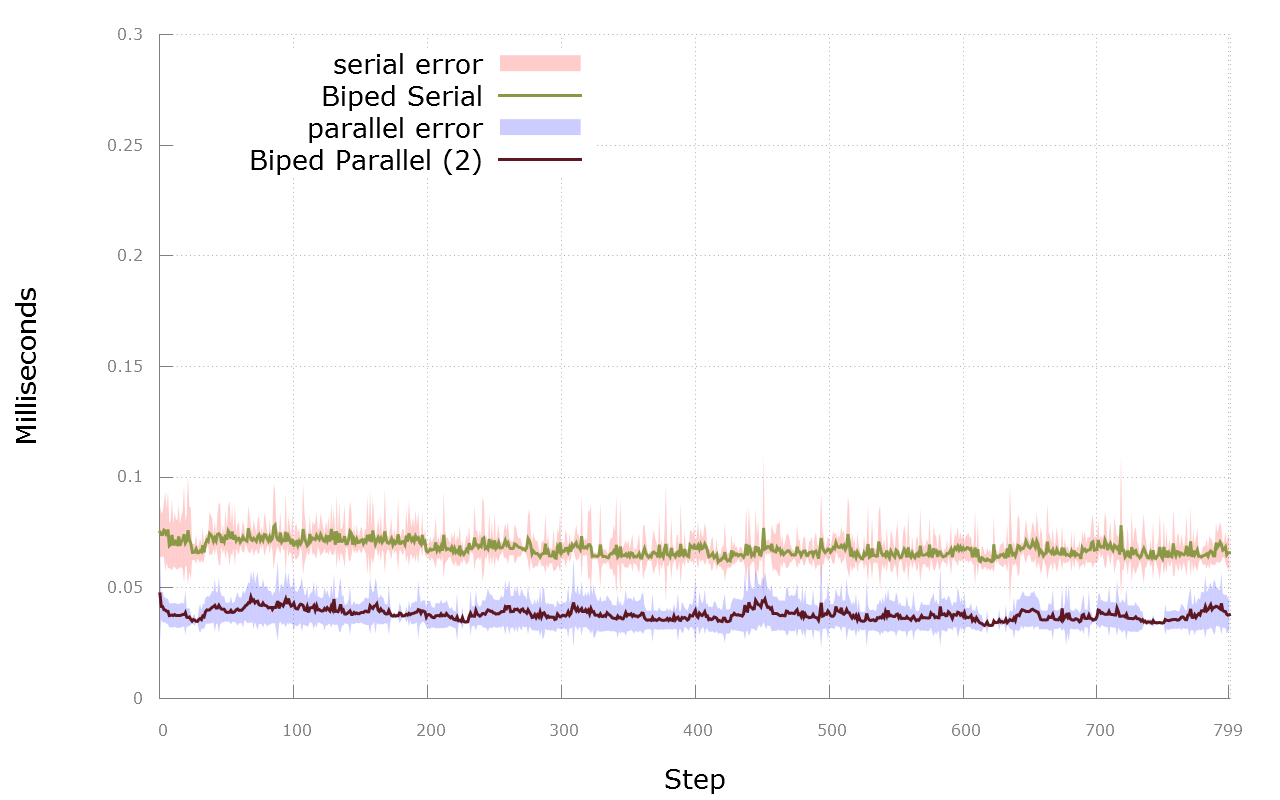
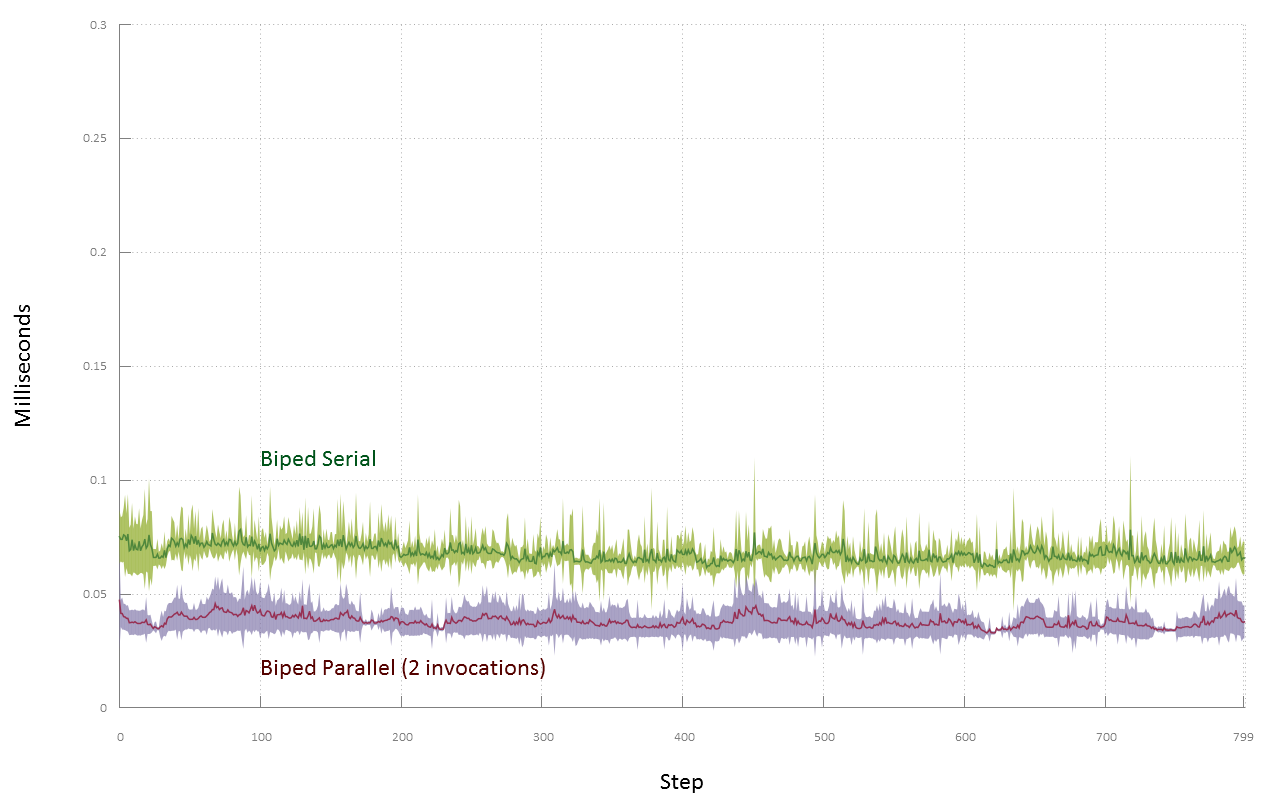
restyling graphs

diff --git a/multileg/bin/output/graphs/render/output_vector_frames_BIPED.tex b/multileg/bin/output/graphs/render/output_vector_frames_BIPED.tex
@@ -123,8 +123,3 @@
       \csname LTb\endcsname%
       \put(3718,3942){\makebox(0,0)[r]{\strut{}Biped Parallel (2)}}%
     }%
-    \gplbacktext
-    \put(0,0){\includegraphics{render/output_vector_frames_BIPED}}%
-    \gplfronttext
-  \end{picture}%
-\endgroup
